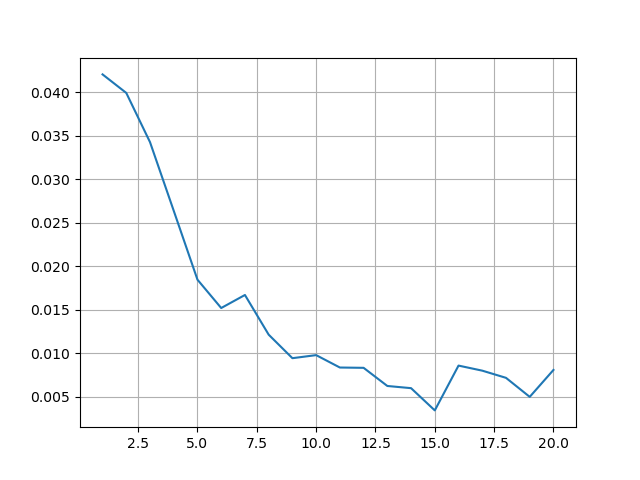
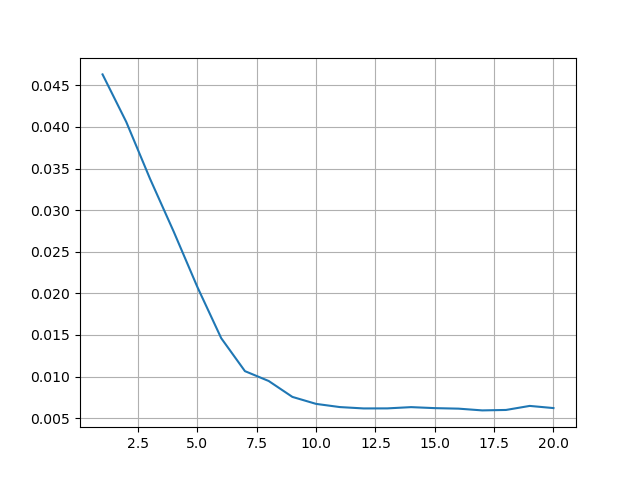
Updated Decision Tree Results for multi graph plotting

diff --git a/decision_tree_results.py b/decision_tree_results.py
@@ -225,12 +225,27 @@ def visualise_results(depth_range,number_of_chunks):
     # metric_name[i][j] = performance metric values for chunk j of the cross validation datasplit with max tree depth of i
     # where j ranges from 0:n-1 where n =  number_of_chunks (cross validation input)
     # where i ranges from 0:m-1 where m = tree depth range
-    mean_per_depth,variance_per_depth,max_per_depth,min_per_depth = nested_list_data_processing(validation_mse_nested)
-    x = np.linspace(1,len(validation_mse_nested),len(validation_mse_nested))
 
+    mean_per_depth, variance_per_depth, max_per_depth, min_per_depth = nested_list_data_processing(tree_depth_nested)
+    x = np.linspace(1, len(tree_depth_nested), len(tree_depth_nested))
+    plot_results(mean_per_depth, x, 'tree_depth_nested.png')
+
+    mean_per_depth, variance_per_depth, max_per_depth, min_per_depth = nested_list_data_processing(r2_value_nested)
+    x = np.linspace(1, len(r2_value_nested), len(r2_value_nested))
+    plot_results(mean_per_depth, x, 'r2_value_mean.png')
+
+    mean_per_depth, variance_per_depth, max_per_depth, min_per_depth = nested_list_data_processing(validation_mse_nested)
+    x = np.linspace(1, len(validation_mse_nested), len(validation_mse_nested))
     plot_results(mean_per_depth, x, 'validation_mse.png')
 
-visualise_results(20,5)
+    mean_per_depth, variance_per_depth, max_per_depth, min_per_depth = nested_list_data_processing(training_mse_nested)
+    x = np.linspace(1, len(training_mse_nested), len(training_mse_nested))
+    plot_results(mean_per_depth, x, 'training_mse.png')
+
+
+
+
+visualise_results(20,50)
 
 
 

diff --git a/predict_fed/pipeline.py b/predict_fed/pipeline.py
@@ -13,7 +13,7 @@ from predict_fed.data import DataSource
 
 class Pipeline:
     def __init__(self, y, features, model, test=False, split_percentages=(60, 20, 20), balance=False, bootstrap=False,
-                 bootstrap_samples=1000, normalisation=False, cross_valid=False, n_chunks=5, chunk_n=0):
+                 bootstrap_samples=10000, normalisation=False, cross_valid=False, n_chunks=5, chunk_n=0):
         self.y = y
         self.feature_sources = features
         self.model = model
